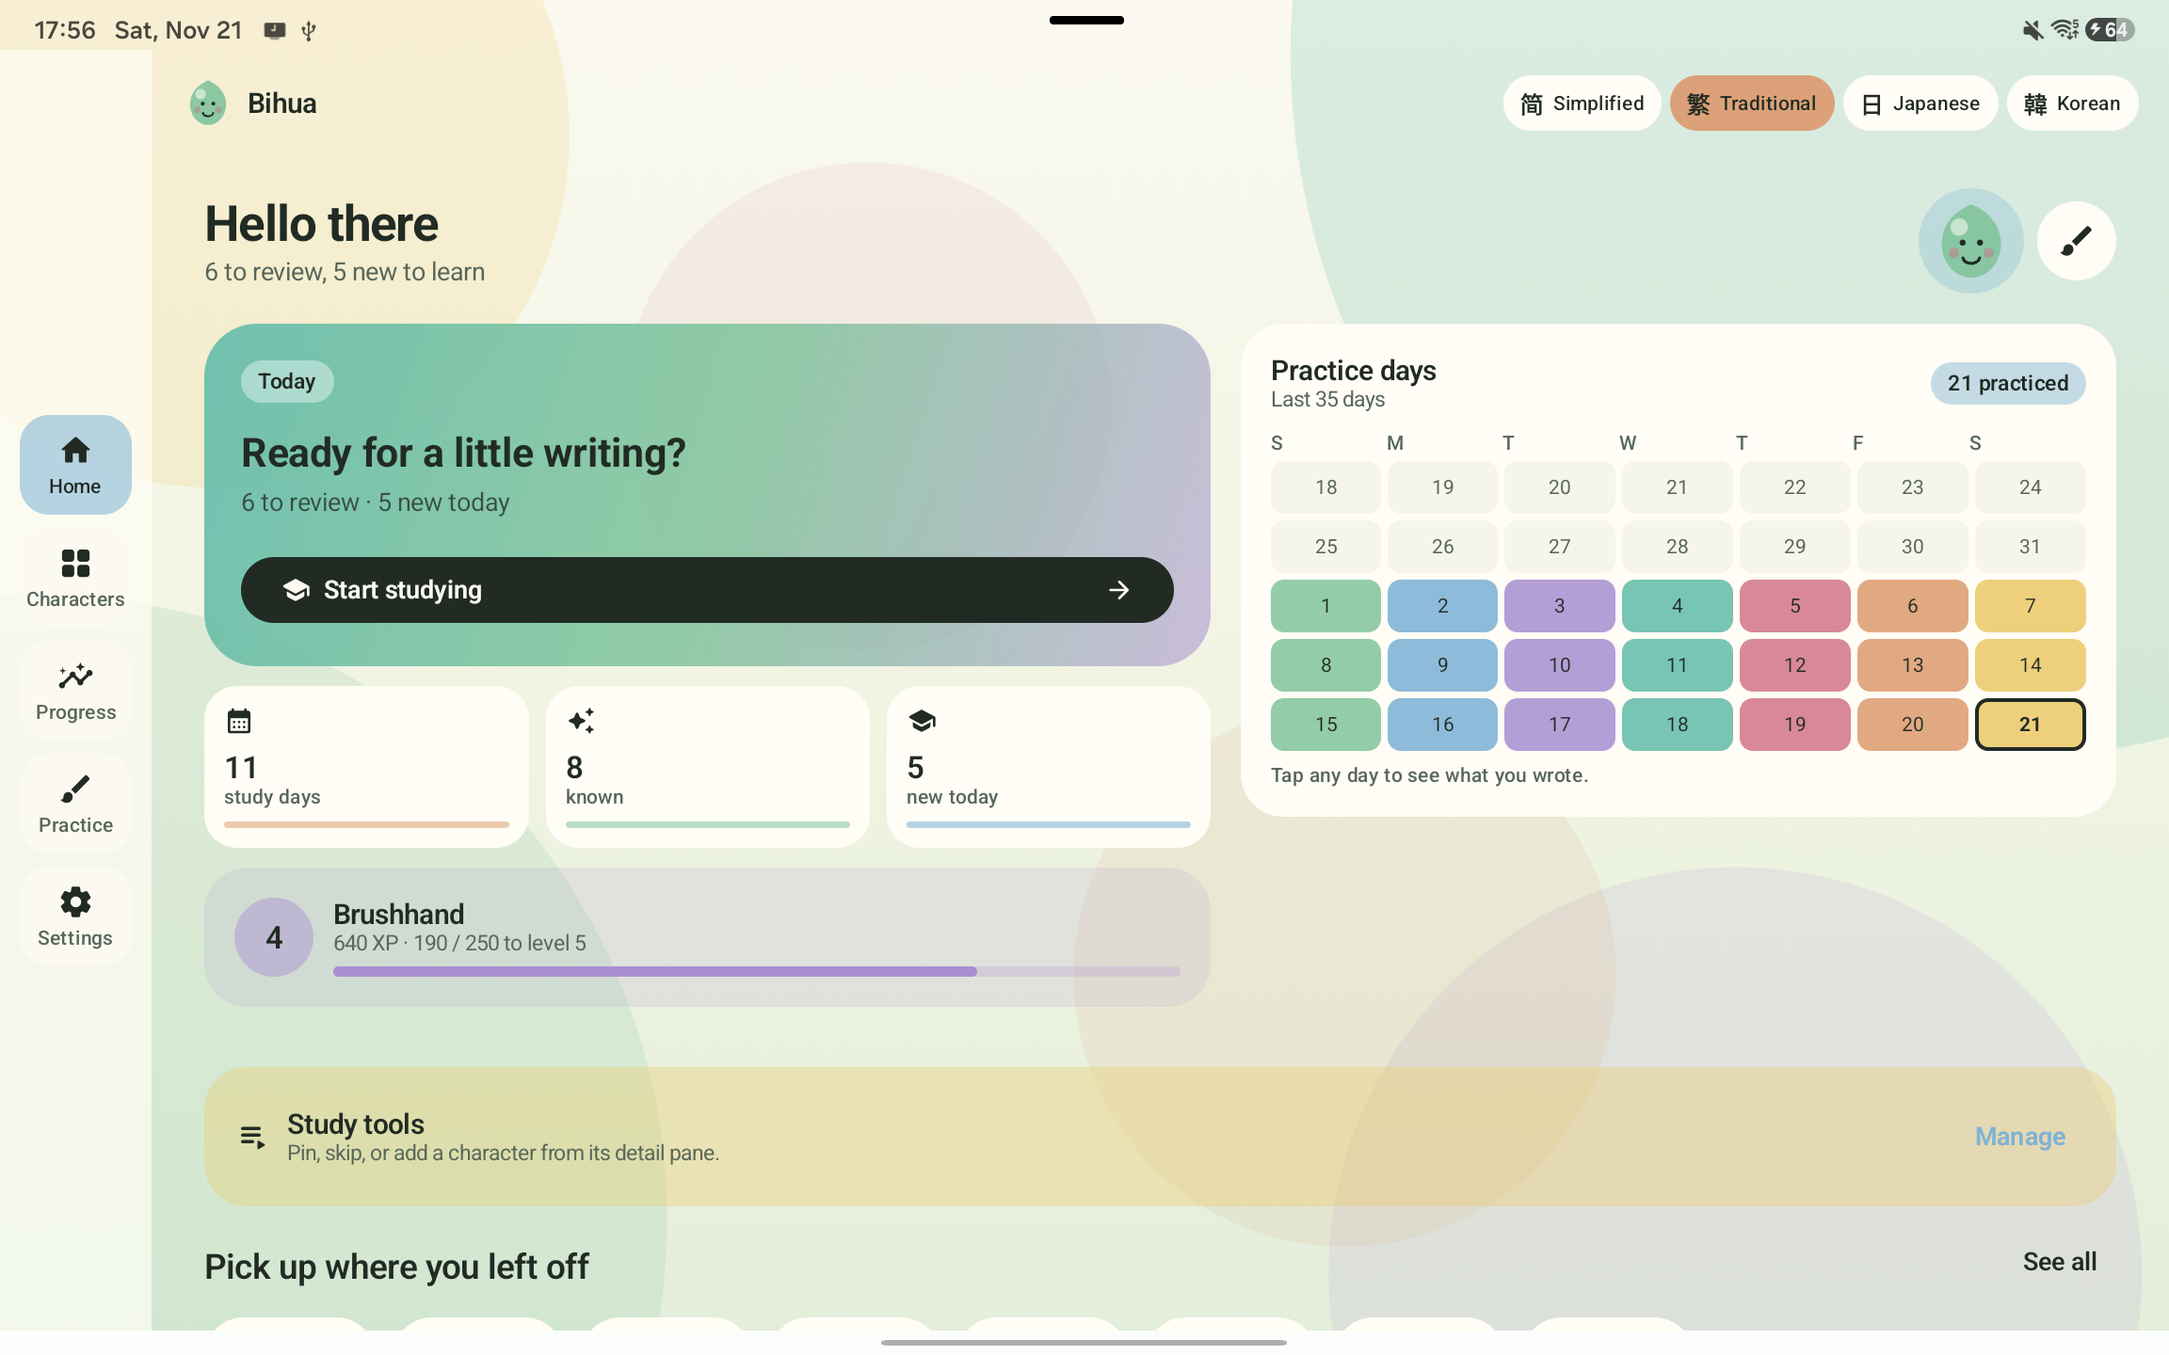
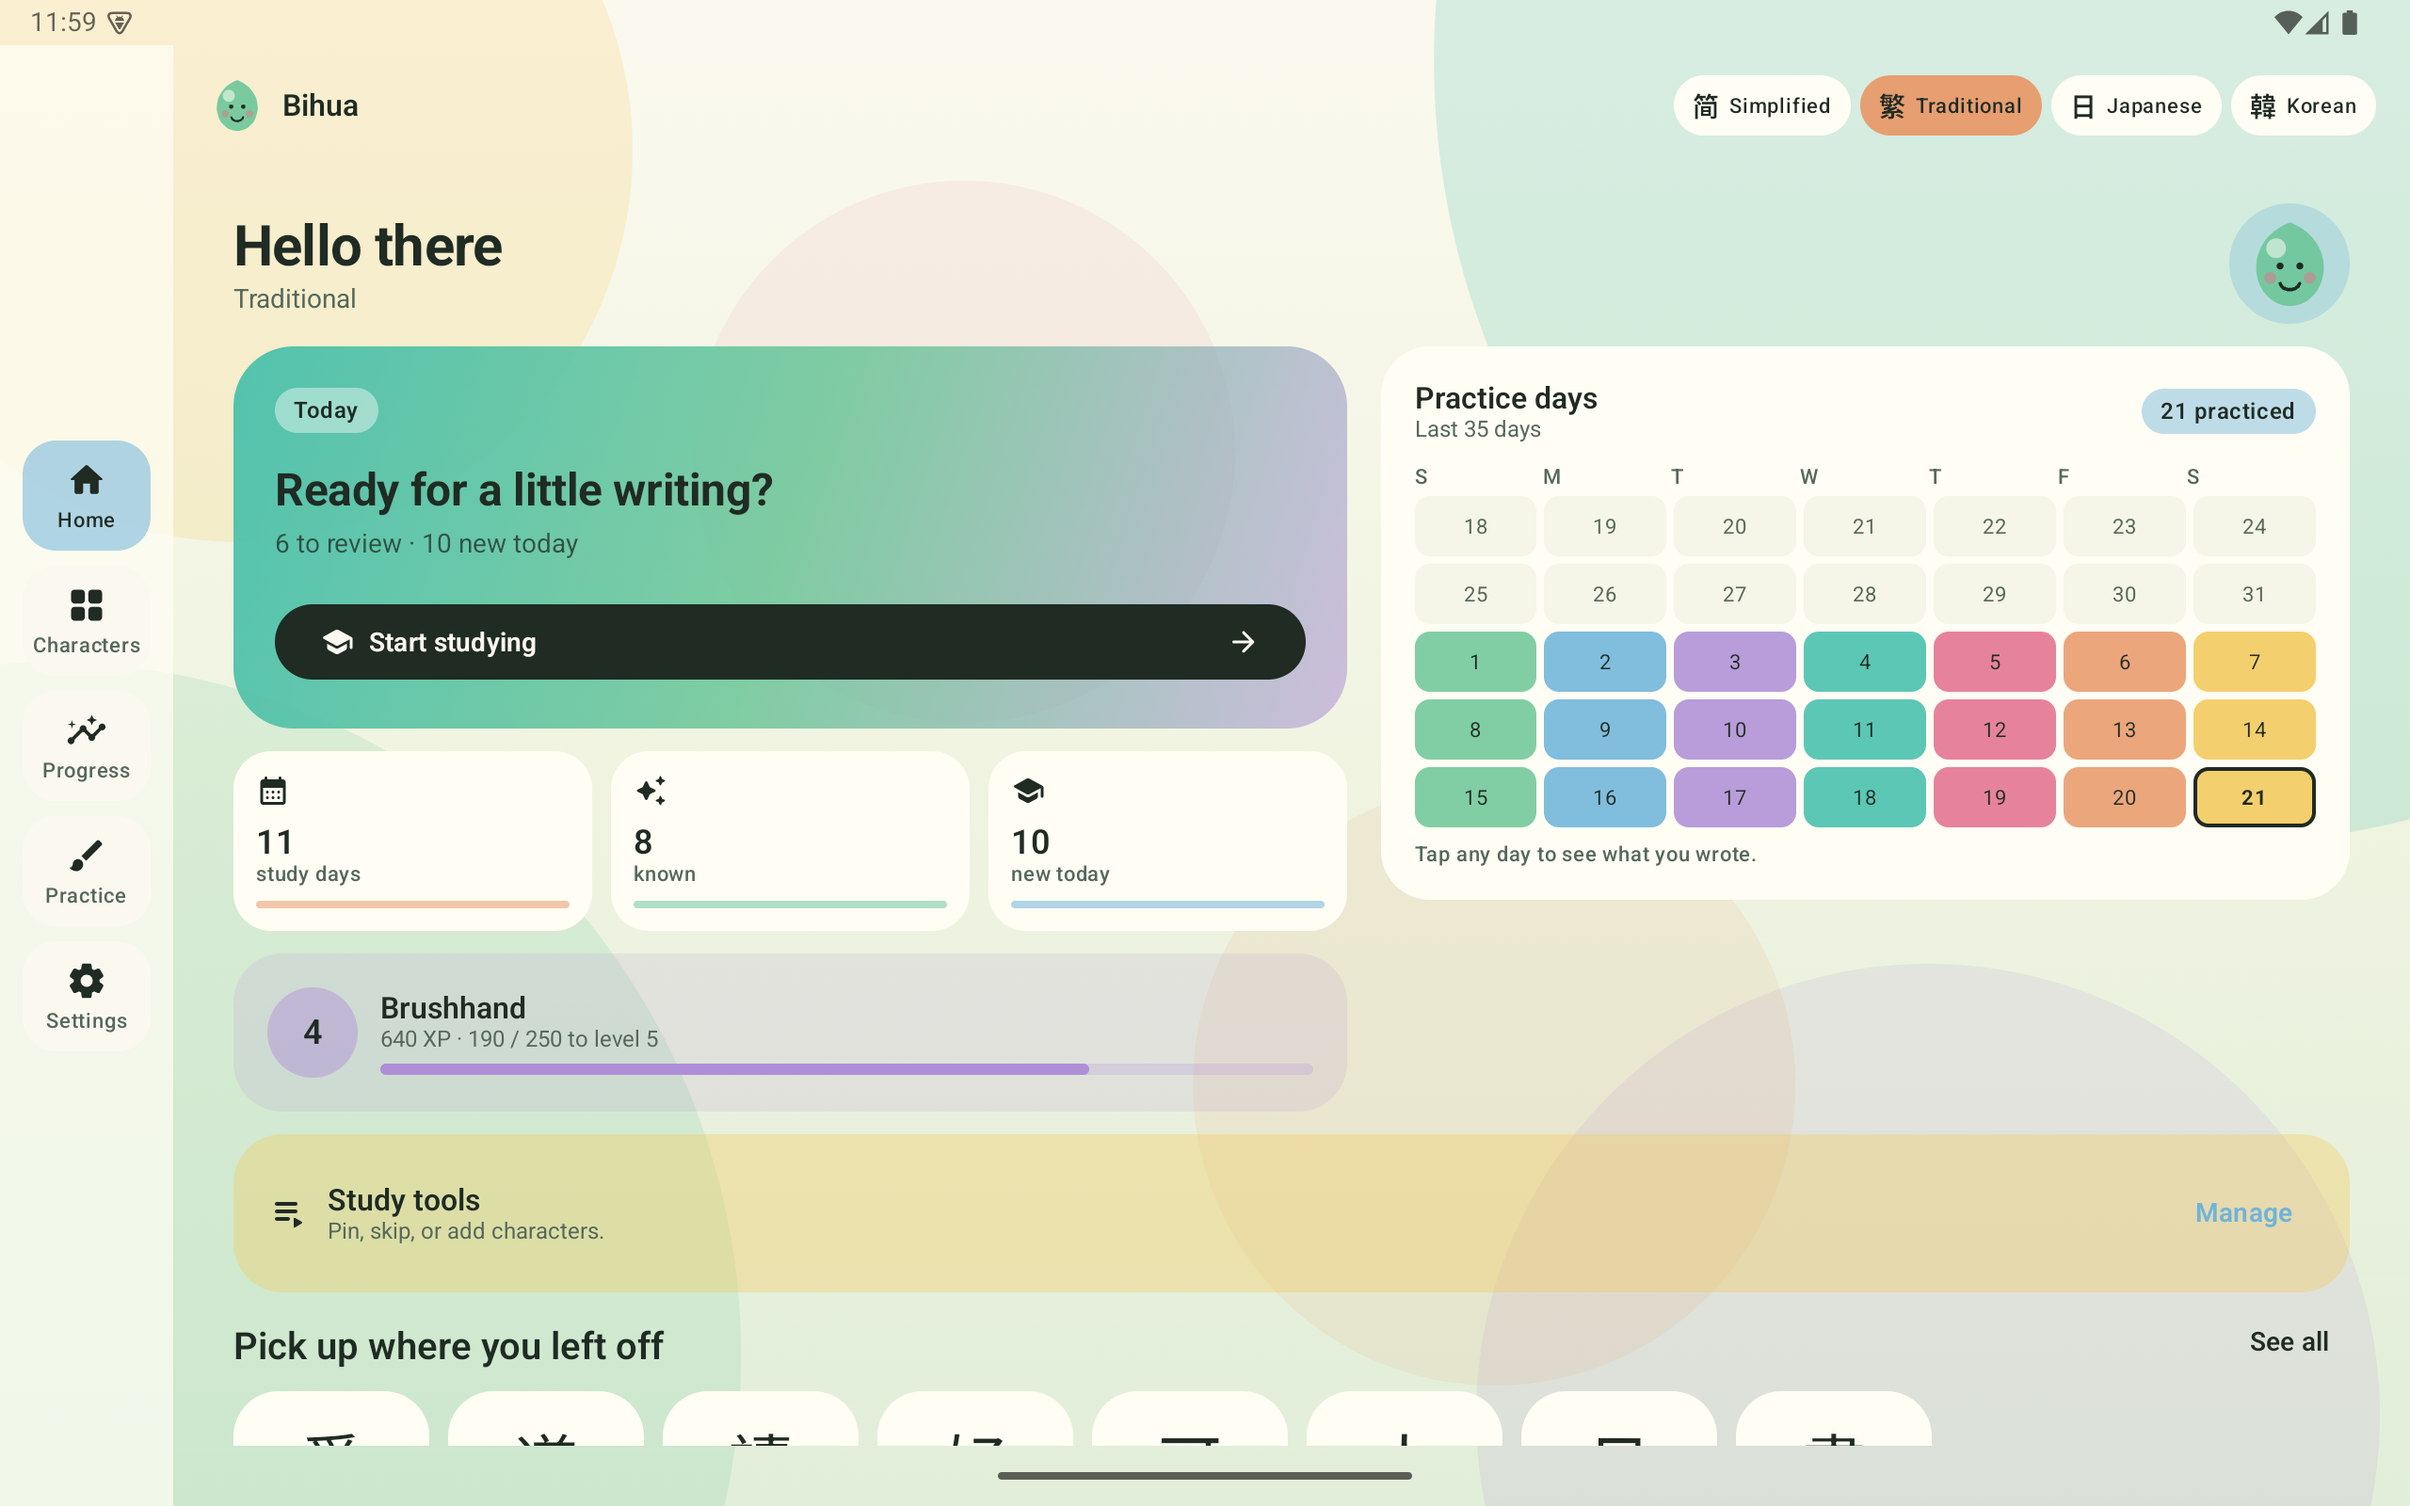
Refresh tablet Play assets and finalize 1.0.2

diff --git a/app/src/main/java/com/bassmd/bihua/ui/CharactersScreen.kt b/app/src/main/java/com/bassmd/bihua/ui/CharactersScreen.kt
@@ -1131,7 +1131,7 @@ private fun CharacterDetail(
                     DetailRow("Simplified", entry.simplified)
                 }
                 val shownVariants = variants.filter {
-                    it != entry.character && it != entry.traditional
+                    it != entry.character && it != entry.traditional && it != entry.simplified
                 }
                 if (shownVariants.isNotEmpty()) {
                     DetailRow("Variants", shownVariants.take(8).joinToString(" "))

diff --git a/app/src/main/java/com/bassmd/bihua/ui/HomeScreen.kt b/app/src/main/java/com/bassmd/bihua/ui/HomeScreen.kt
@@ -254,7 +254,7 @@ fun HomeScreen(
                                 )
                                 Text(
                                     if (summary.isEmpty()) {
-                                        "Pin, skip, or add a character from its detail pane."
+                                        "Pin, skip, or add characters."
                                     } else {
                                         summary.joinToString(" · ")
                                     },

diff --git a/docs/index.html b/docs/index.html
@@ -222,7 +222,7 @@
       </div>
       <div class="download-side">
         <p class="small" style="margin-top:0">SHA-256</p>
-        <code>76ec00b291ed73b7a33d6822e1dff6da8ee8cd602fe712ff5695979a914bfe83</code>
+        <code>e27d7357dd11c5e946fff00905d8e88b7dcee733b94969f780424c3bfacbe9e9</code>
         <p class="small" style="margin:14px 0 0"><a href="download/SHA256SUMS.txt">Checksum file</a></p>
       </div>
     </div>

diff --git a/store/README.md b/store/README.md
@@ -3,10 +3,10 @@
 - `icon-512.png` — app icon, 512 × 512
 - `feature-graphic.png` — 1024 × 500
 - `phone-1.png` … `phone-7.png` — 1080 × 1920, 9:16, captured from 1.0.2
-- `tablet-10-*.png` — 2560 × 1440, 16:9, for 10-inch tablets
-- `tablet-7-*.png` — 1920 × 1080, 16:9, for 7-inch tablets
+- `tablet-10-*.png` — 2560 × 1440, 16:10 app inside a 16:9 frame, current 1.0.2
+- `tablet-7-*.png` — 1920 × 1080, 16:10 app inside a 16:9 frame, current 1.0.2
 - `app-shots/` — raw 1080 × 2400 captures of Home, Characters, detail, Practice, word practice, Progress, and the grade sheet
-- `tablet-1-home.png` … `tablet-4-progress.png` — older tablet source captures; refresh before uploading tablet shots
+- `tablet-1-home.png` … `tablet-4-progress.png` — raw 2560 × 1600 tablet captures
 - `listing.md` — names, descriptions, category, tags, contact
 - `release-notes-1.0.2.txt` — Play closed-test release notes
 - `phone-*-light.svg` — editable source frames for the phone shots
@@ -21,4 +21,4 @@ light theme, and the real app. Phone frames are rendered from the editable
 ```
 
 `phone-6` shows the answer/grade sheet; `phone-7` shows Progress. Tablet shots
-should be recaptured from 1.0.2 before they are uploaded.
+are current 1.0.2 captures from a 2560 × 1600 Pixel Tablet emulator.

diff --git a/CHANGELOG.md b/CHANGELOG.md
@@ -79,6 +79,9 @@
   the icons no longer move when the selected tab changes.
 - Play screenshots were regenerated from the real 1.0.2 app in light mode, with
   a grade-sheet shot and a Progress shot added.
+- Tablet screenshots were recaptured from a 2560 × 1600 Pixel Tablet emulator
+  for both the 7-inch and 10-inch slots.
+- Duplicate variant rows in character details are hidden.
 
 ### Fixed
 
